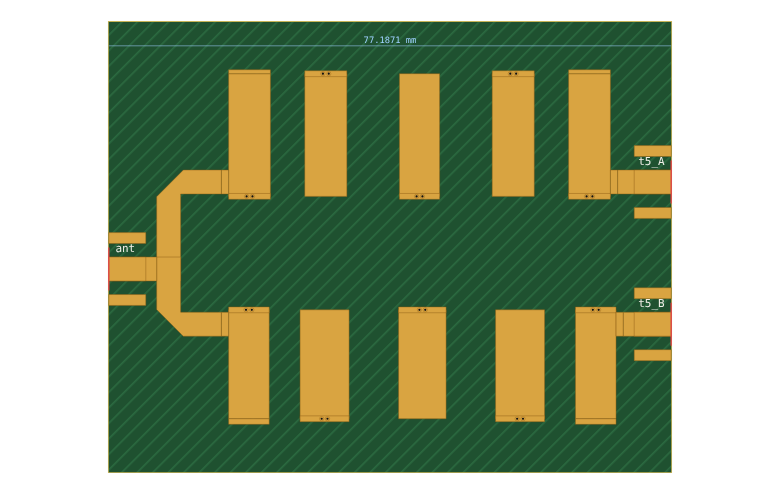
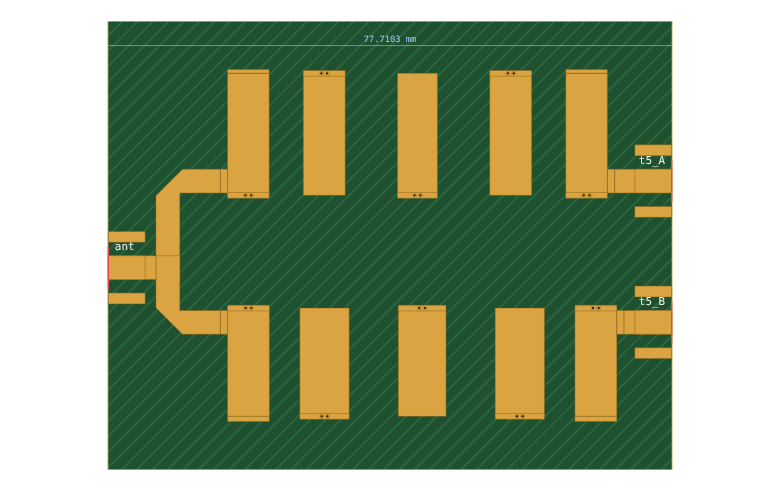
Solver: exact coth denominator, short lines evaluated at >= 1e-9 rad, wider half-wave retries (#50)
- cosh 2x - cos 2y -> 2(sinh^2 x + sin^2 y): no cancellation on short lossless lines; fixes NaN at 0 Hz
- sections shorter than 1e-9 rad are evaluated at 1e-9 rad (a wire)
- half-wave retries at 1e-9, 1e-7, 1e-5 relative (the exact form no longer hides near-singular points)
- duplexer example re-synthesised (optimiser path changed in the last digits); example 11 numbers, figure

Claude-Session: https://claude.ai/code/session_01HFFs2bbQVjp6DHo2PUyJuF

diff --git a/js/section.js b/js/section.js
@@ -77,13 +77,18 @@ export class Section {
 
   // Fill the 2N×2N admittance matrix at frequency f (Hz). Returns {re, im} Float64Arrays (row-major 2N×2N).
   admittance(f) {
-    const N = this.N, n2 = 2 * N, W = this.W, w = 2 * Math.PI * f;
+    const N = this.N, n2 = 2 * N, W = this.W;
+    // an electrically negligible line (a sliver of copper, or any line near DC) has Y ~ 1/θ, which swamps
+    // the nodal matrix as θ → 0: evaluate it at θ ≥ THETA_MIN, indistinguishable from a wire there (#50)
+    const ymin = 2 * Math.PI * f * this.len / Math.max(...this.v);
+    const w = 2 * Math.PI * f * (ymin < THETA_MIN ? THETA_MIN / Math.max(ymin, 1e-300) : 1);
     const cr = new Float64Array(N), ci = new Float64Array(N), sr = new Float64Array(N), si = new Float64Array(N);
     for (let k = 0; k < N; k++) {
       const beta = w / this.v[k];
       const x = (isFinite(this.Qm[k]) ? beta / (2 * this.Qm[k]) : 0) * this.len, y = beta * this.len;
-      // coth(x+jy) = [sinh 2x − j sin 2y] / [cosh 2x − cos 2y]
-      const den = Math.cosh(2 * x) - Math.cos(2 * y);
+      // coth(x+jy) = [sinh 2x − j sin 2y] / [cosh 2x − cos 2y], with cosh 2x − cos 2y = 2(sinh² x + sin² y)
+      // (the difference form cancels catastrophically on short lossless lines, #50)
+      const den = 2 * (Math.sinh(x) ** 2 + Math.sin(y) ** 2);
       cr[k] = this.v[k] * Math.sinh(2 * x) / den;
       ci[k] = -this.v[k] * Math.sin(2 * y) / den;
       // csch(x+jy) = 1/sinh(x+jy),  sinh(x+jy) = sinh x cos y + j cosh x sin y
@@ -106,6 +111,9 @@ export class Section {
     return { re, im, n: n2 };
   }
 }
+
+// smallest electrical length (rad) a section is evaluated at; see admittance()
+export const THETA_MIN = 1e-9;
 
 // ---------- constructors from common parameterisations ----------
 

diff --git a/docs/examples/11-duplexer.html b/docs/examples/11-duplexer.html
@@ -63,7 +63,7 @@
 <p><strong>Why Zr 35 Ω and interdigital.</strong> At 4 % bandwidth each filter needs an external Q of 28.7. On 1.524 mm the 50 Ω feed is 3.3 mm wide, so the tap junction cannot get close enough to the shorted end to reach it. The refinement stops at about 20, whatever the resonator impedance or type (comb-line reaches 18.6). The goal polish then makes up for it, and the report records that as a note. At Zr 50 Ω filter B&#39;s band came out 1 dB too wide. At 35 Ω both filters meet their goals.</p>
 <h2 id="2-the-manifold"><a class="anchor" href="#2-the-manifold" aria-hidden="true">#</a>2. The manifold</h2>
 <pre><code>ant ── tee ──┬── 8.65 mm up ── bend ── 6.58 mm ── filter A (2.30 GHz) ── port A
-             └── 4.28 mm down ── bend ── 6.58 mm ── filter B (2.53 GHz) ── port B
+             └── 4.25 mm down ── bend ── 6.58 mm ── filter B (2.53 GHz) ── port B
 </code></pre>
 <p>The synthesis measures each filter&#39;s reflection at the other band&#39;s centre:</p>
 <ul>
@@ -94,11 +94,11 @@
 <tr>
 <td>insertion loss antenna → own port, centre / worst in the central 80 %</td>
 <td>2.82 / 3.96 dB</td>
-<td>2.58 / 3.56 dB</td>
+<td>2.58 / 3.57 dB</td>
 </tr>
 <tr>
 <td>leakage antenna → the other port</td>
-<td>≥ 46.6 dB down</td>
+<td>≥ 46.7 dB down</td>
 <td>≥ 69.3 dB down</td>
 </tr>
 <tr>
@@ -125,7 +125,7 @@
 </thead>
 <tbody><tr>
 <td>board</td>
-<td>77.2 × 61.8 mm, three edge-launch SMAs</td>
+<td>77.7 × 61.7 mm, three edge-launch SMAs</td>
 </tr>
 <tr>
 <td>design rules</td>

diff --git a/docs/manual.html b/docs/manual.html
@@ -1818,7 +1818,8 @@ Y12 = Y21 = −W · diag(vᵢ csch γᵢℓ) · Wᵀ          γᵢ = βᵢ (1/(
 </code></pre>
 <p>This is valid for real reference impedances.</p>
 <p>The terminated form stays well conditioned where a Kron reduction onto the ports would not. An example is a resonance of the network with its ports shorted: the Marchand balun has one at f0/2.</p>
-<p>At exact half-wave frequencies a lossless line&#39;s admittance is singular. Such points are evaluated 1 ppb away from the requested frequency, which gives the limiting value. Points that still fail are shown as gaps and counted in the status line.</p>
+<p>At exact half-wave frequencies a lossless line&#39;s admittance is singular. Such points are evaluated a little away from the requested frequency, which gives the limiting value: 1 ppb first, then 0.1 ppm and 10 ppm if the network is still near-singular, as next to a transmission zero. Points that still fail are shown as gaps and counted in the status line.</p>
+<p>Line admittances use coth and csch of γℓ, written so that they lose no precision as ℓ → 0. A line shorter than 1e-9 rad at the frequency in question, whether a sliver left by rounding or any line at 0 Hz, is evaluated at 1e-9 rad, where it is indistinguishable from a wire. So a sweep that starts at 0 Hz gives the DC limit there (#50).</p>
 <h3 id="93-not-modelled"><a class="anchor" href="#93-not-modelled" aria-hidden="true">#</a>9.3 Not modelled</h3>
 <ul>
 <li>Dispersion; the quasi-TEM ε<sub>eff</sub> is constant.</li>

diff --git a/js/solver.js b/js/solver.js
@@ -63,8 +63,10 @@ export function solve(d, freqs = frequencies(d.freq)) {
   for (let k = 0, retry = 0; k < nf; k++) {
     let f = freqs[k];
     if (f <= 0) f = Math.max(1e-9 * freqs[nf - 1], 1e-3);
-    // exact half-wave points of lossless lines are singular: evaluate a hair away (limit value)
-    if (retry) f *= 1 + 1e-9 * retry;
+    // exact half-wave points of lossless lines are singular: evaluate a hair away (limit value), further
+    // each retry (1e-9, 1e-7, 1e-5 relative): next to a transmission zero the network stays near-singular
+    // for a while, and the exact coth denominator (#50) no longer hides that behind rounding
+    if (retry) f *= 1 + 10 ** (2 * retry - 11);
     const w = 2 * Math.PI * f;
     const Y = new CMat(n);
     // sections

diff --git a/docs/examples/11-duplexer.md b/docs/examples/11-duplexer.md
@@ -26,7 +26,7 @@ It takes about 1.5 minutes, most of it the two interdigital syntheses (manual §
 
 ```
 ant ── tee ──┬── 8.65 mm up ── bend ── 6.58 mm ── filter A (2.30 GHz) ── port A
-             └── 4.28 mm down ── bend ── 6.58 mm ── filter B (2.53 GHz) ── port B
+             └── 4.25 mm down ── bend ── 6.58 mm ── filter B (2.53 GHz) ── port B
 ```
 
 The synthesis measures each filter's reflection at the other band's centre:
@@ -43,8 +43,8 @@ From the report (with the substrate's loss):
 |---|---|---|
 | **isolation port A ↔ port B** (spec ≥ 40 dB) | **≥ 49.6 dB** | **≥ 72.1 dB** |
 | antenna return loss, central 80 % | ≥ 15.7 dB | ≥ 15.5 dB |
-| insertion loss antenna → own port, centre / worst in the central 80 % | 2.82 / 3.96 dB | 2.58 / 3.56 dB |
-| leakage antenna → the other port | ≥ 46.6 dB down | ≥ 69.3 dB down |
+| insertion loss antenna → own port, centre / worst in the central 80 % | 2.82 / 3.96 dB | 2.58 / 3.57 dB |
+| leakage antenna → the other port | ≥ 46.7 dB down | ≥ 69.3 dB down |
 | the other filter alone rejects this band by | ≥ 39.0 dB | ≥ 62.8 dB |
 
 **Reading the budget:**
@@ -60,7 +60,7 @@ The layout panel, or `.layout duplexer`, draws both filters with the resonator-a
 
 | | |
 |---|---|
-| board | 77.2 × 61.8 mm, three edge-launch SMAs |
+| board | 77.7 × 61.7 mm, three edge-launch SMAs |
 | design rules | clean |
 | as built vs design | passband S21/S31 within 0.03 dB; isolation unchanged (49.6 / 72.1 dB) |
 

diff --git a/docs/manual.md b/docs/manual.md
@@ -1125,7 +1125,9 @@ This is valid for real reference impedances.
 
 The terminated form stays well conditioned where a Kron reduction onto the ports would not. An example is a resonance of the network with its ports shorted: the Marchand balun has one at f0/2.
 
-At exact half-wave frequencies a lossless line's admittance is singular. Such points are evaluated 1 ppb away from the requested frequency, which gives the limiting value. Points that still fail are shown as gaps and counted in the status line.
+At exact half-wave frequencies a lossless line's admittance is singular. Such points are evaluated a little away from the requested frequency, which gives the limiting value: 1 ppb first, then 0.1 ppm and 10 ppm if the network is still near-singular, as next to a transmission zero. Points that still fail are shown as gaps and counted in the status line.
+
+Line admittances use coth and csch of γℓ, written so that they lose no precision as ℓ → 0. A line shorter than 1e-9 rad at the frequency in question, whether a sliver left by rounding or any line at 0 Hz, is evaluated at 1e-9 rad, where it is indistinguishable from a wire. So a sweep that starts at 0 Hz gives the DC limit there (#50).
 
 ### 9.3 Not modelled
 
